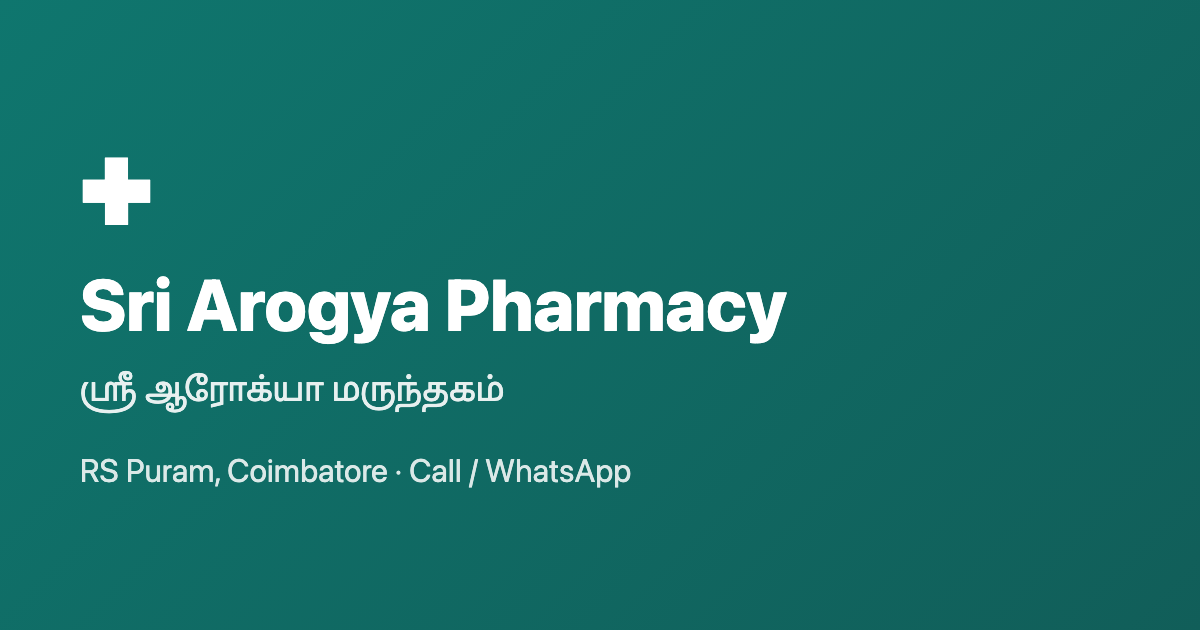
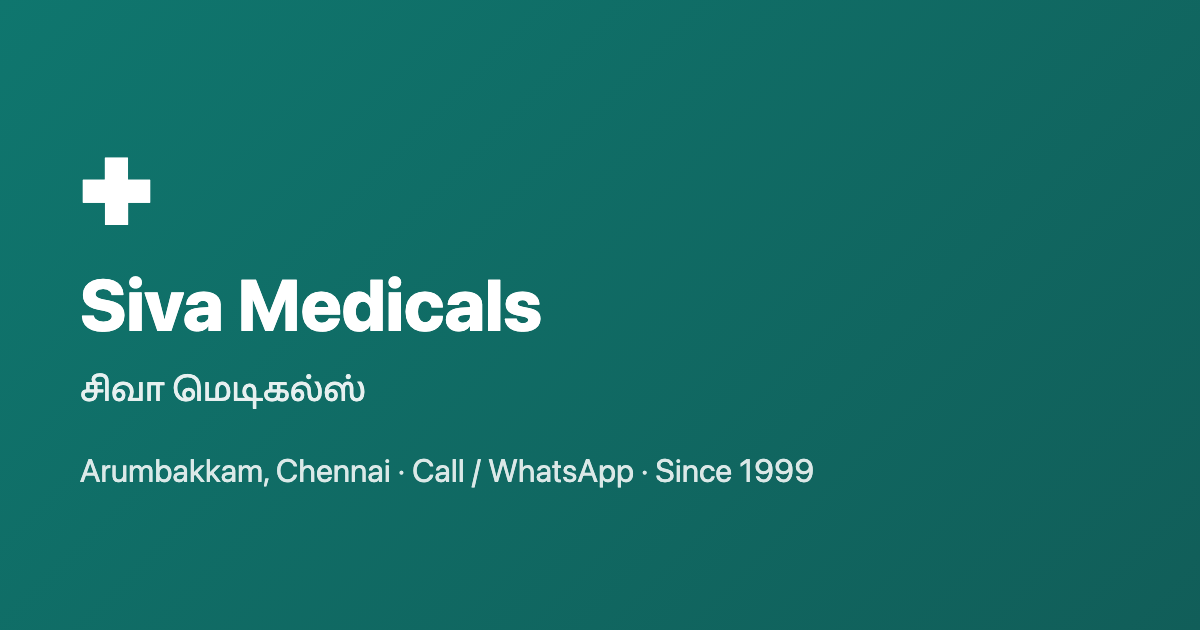
chore: rename project to siva-medicals and build social preview image from site data

Changed region(s): [[0.0925, 0.4222, 0.6783, 0.5429], [0.0617, 0.7238, 0.6783, 0.7841], [0.0617, 0.573, 0.4317, 0.6635]]

diff --git a/README.md b/README.md
@@ -1,4 +1,4 @@
-# Sri Arogya Pharmacy website
+# Siva Medicals website
 
 Bilingual (English + தமிழ்) static website for a neighbourhood pharmacy. Built with Astro 7 and Tailwind CSS 4; ships almost no JavaScript.
 
